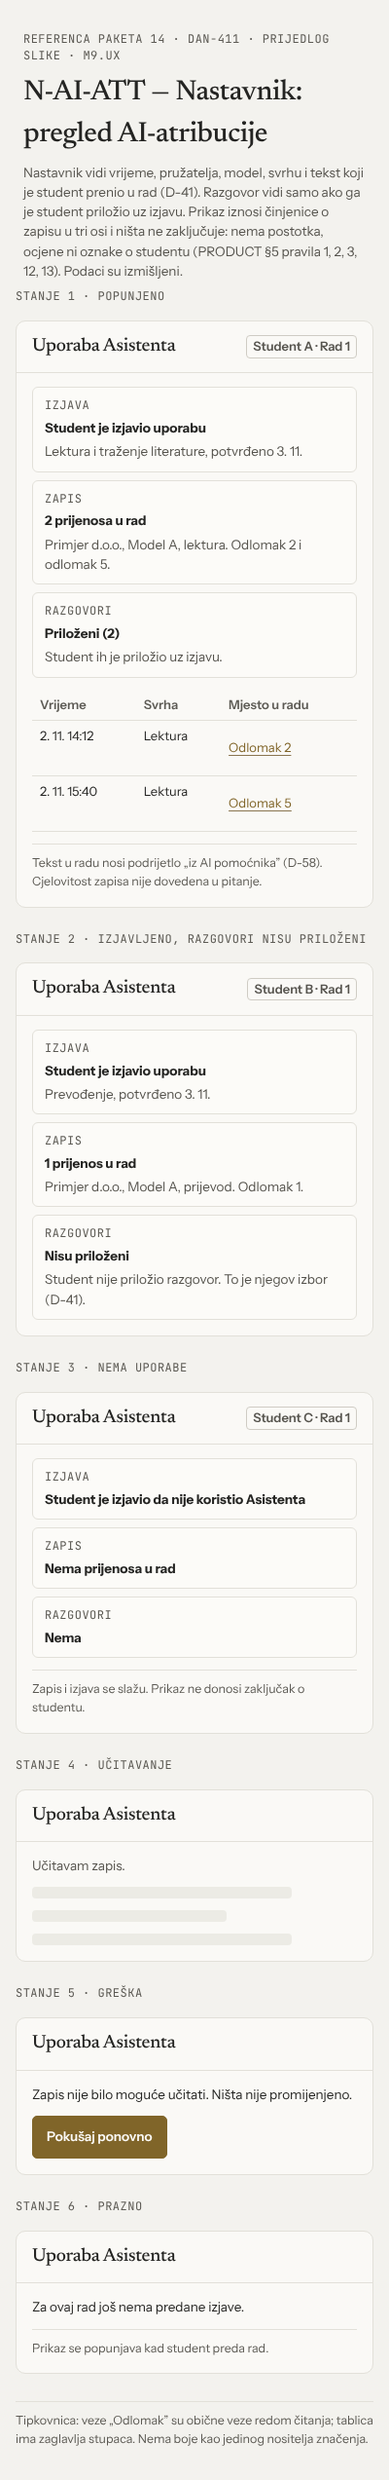
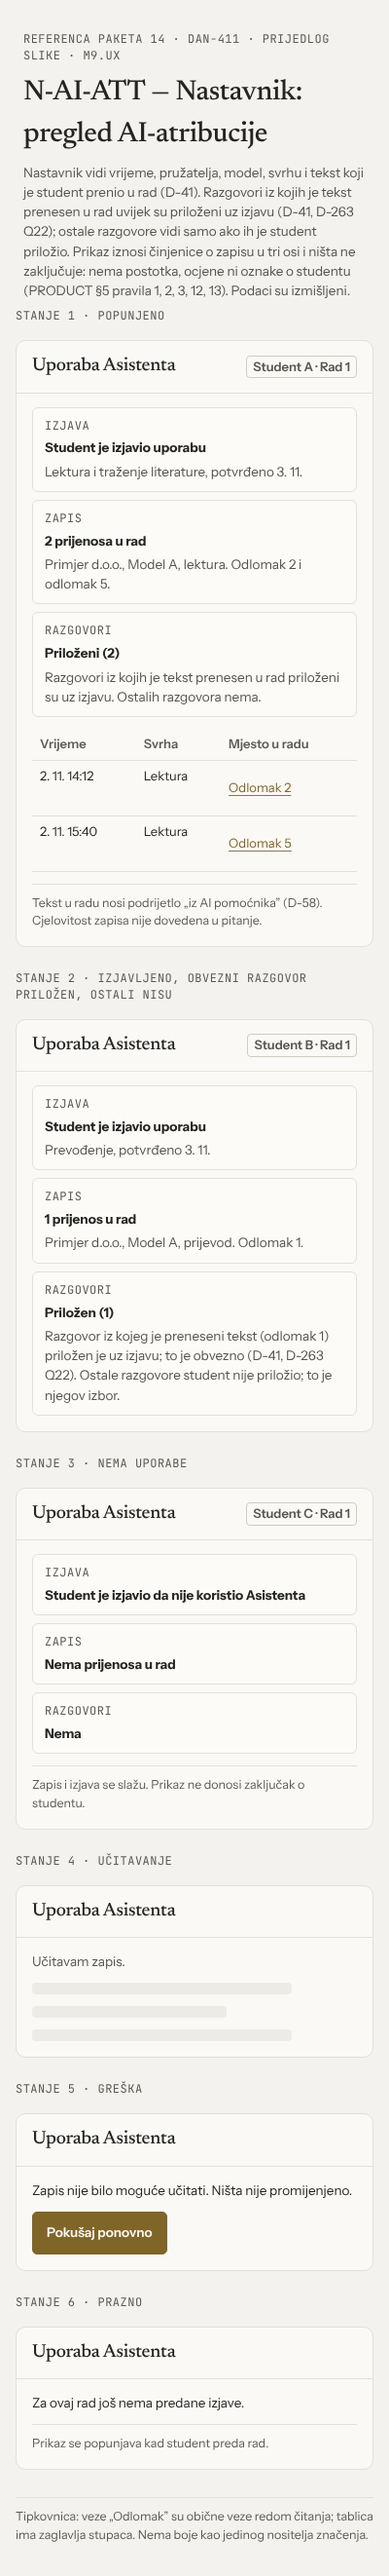
fix: show mandatory AI conversations as attached and add review state 2b (M9 reference B)
n-ai-att state 2 now shows the conversation the text was transferred from
as attached (D-41, D-263 Q22); only other conversations are the student's
choice. s31-ai state 2 gets a path to review and new state 2b with the
exact versions of the mandatory conversations before confirmation.
README, SHA256SUMS and eight snapshots updated.

Claude-Session: https://claude.ai/code/session_01N1HowXBt1YjNZJDEqbraN5

diff --git a/docs/design/ductura/m9-reference-b/s31-ai.html b/docs/design/ductura/m9-reference-b/s31-ai.html
@@ -10,7 +10,7 @@
 <header class="ref-head">
   <div class="ref-tag">Referenca paketa 14 · DAN-411 · prijedlog slike · M9.UX</div>
   <h1>S31-AI — Izjava o uporabi AI u predaji</h1>
-  <p>Student prije predaje izjavljuje je li koristio Asistenta, a izjava se sastavlja iz zapisa (D-40): alat, pružatelj, model, svrha, faza i razgovor. Student bira hoće li razgovore priložiti. Tekst je činjenica o uporabi, bez postotka i ocjene (PRODUCT §5 pravila 1, 2, 3, 13). Podaci su izmišljeni.</p>
+  <p>Student prije predaje izjavljuje je li koristio Asistenta, a izjava se sastavlja iz zapisa (D-40): alat, pružatelj, model, svrha, faza i razgovor. Razgovori iz kojih je tekst prenesen u rad prilažu se uvijek, a student prije potvrde pregledava njihove točne verzije; ostale razgovore prilaže po izboru (D-41, D-263 Q22). Tekst je činjenica o uporabi, bez postotka i ocjene (PRODUCT §5 pravila 1, 2, 3, 13). Podaci su izmišljeni.</p>
 </header>
 <main class="page"><div class="variants">
 
@@ -35,13 +35,33 @@
           <tbody><tr><td>Lektura</td><td>Primjer d.o.o., Model A</td><td>Pisanje</td></tr>
           <tr><td>Traženje literature</td><td>Primjer d.o.o., Model A</td><td>Planiranje</td></tr></tbody></table>
         <p class="note">Preneseno u rad: 2 odlomka, označeno kao „iz AI pomoćnika”.</p>
-        <p>Razgovori iz kojih je tekst prenesen u rad (2) prilažu se uz izjavu; možete pregledati njihove točne verzije prije potvrde.</p>
+        <p>Razgovori iz kojih je tekst prenesen u rad (2) prilažu se uz izjavu i ne mogu se izostaviti.</p>
+        <div class="acts"><button class="btn secondary" type="button">Pregledaj točne verzije razgovora (2)</button></div>
         <fieldset class="radio"><legend>Ostali razgovori</legend>
           <label><input type="radio" name="r2" checked> Priloži ostale razgovore (1)</label>
           <label><input type="radio" name="r2"> Ne prilaži ostale razgovore</label>
         </fieldset>
         <p class="foot">Ostali razgovori su Vaši dok pišete. Nastavnik ih vidi samo ako ih priložite (D-41).</p>
         <div class="acts"><button class="btn" type="button">Potvrdi izjavu</button><button class="btn secondary" type="button">Natrag na rad</button></div>
+      </div>
+    </div>
+  </section>
+
+  <section class="variant" aria-labelledby="v2b">
+    <div class="ref-tag" id="v2b">Stanje 2b · pregled točnih verzija obveznih razgovora prije potvrde</div>
+    <div class="panel" role="dialog" aria-labelledby="t2b">
+      <div class="panel-top"><h2 id="t2b">Razgovori uz izjavu (2)</h2><span class="tag">Pregled</span></div>
+      <div class="panel-body">
+        <p class="note">Ovo su točne verzije razgovora iz kojih je tekst prenesen u rad, onakve kakve će ući uz izjavu. Ne mogu se mijenjati ni izostaviti.</p>
+        <h3>Razgovor 1 · Lektura · 2. 11. 14:05</h3>
+        <div class="turn you"><span class="who">Vi</span><span>Možeš li lektorirati ovaj odlomak o izmišljenom primjeru?</span></div>
+        <div class="turn"><span class="who">Asistent · Primjer d.o.o., Model A</span><span>Predlažem blaže poredak rečenica i jednostavniji glagol u drugoj rečenici. Izmišljen primjer odgovora.</span></div>
+        <p class="foot">Preneseno u rad: odlomak 2, „iz AI pomoćnika”.</p>
+        <h3>Razgovor 2 · Lektura · 2. 11. 15:32</h3>
+        <div class="turn you"><span class="who">Vi</span><span>Provjeri interpunkciju u ovom odlomku.</span></div>
+        <div class="turn"><span class="who">Asistent · Primjer d.o.o., Model A</span><span>Dodajte zarez prije veznika u trećoj rečenici. Izmišljen primjer odgovora.</span></div>
+        <p class="foot">Preneseno u rad: odlomak 5, „iz AI pomoćnika”.</p>
+        <div class="acts"><button class="btn" type="button">Natrag na izjavu</button></div>
       </div>
     </div>
   </section>
@@ -98,7 +118,7 @@
   </section>
 
 </div>
-<p class="foot">Tipkovnica: dijalog hvata fokus, Esc ga zatvara i vraća fokus na gumb Predaj; odabir razgovora je skupina izbornih gumba sa strelicama. Greška se objavljuje kao role="alert".</p>
+<p class="foot">Tipkovnica: dijalog hvata fokus, Esc ga zatvara i vraća fokus na gumb Predaj; gumb „Pregledaj točne verzije razgovora” otvara pregled, a odabir ostalih razgovora je skupina izbornih gumba sa strelicama. Greška se objavljuje kao role="alert".</p>
 </main>
 </body>
 </html>

diff --git a/docs/design/ductura/m9-reference-b/n-ai-att.html b/docs/design/ductura/m9-reference-b/n-ai-att.html
@@ -10,7 +10,7 @@
 <header class="ref-head">
   <div class="ref-tag">Referenca paketa 14 · DAN-411 · prijedlog slike · M9.UX</div>
   <h1>N-AI-ATT — Nastavnik: pregled AI-atribucije</h1>
-  <p>Nastavnik vidi vrijeme, pružatelja, model, svrhu i tekst koji je student prenio u rad (D-41). Razgovor vidi samo ako ga je student priložio uz izjavu. Prikaz iznosi činjenice o zapisu u tri osi i ništa ne zaključuje: nema postotka, ocjene ni oznake o studentu (PRODUCT §5 pravila 1, 2, 3, 12, 13). Podaci su izmišljeni.</p>
+  <p>Nastavnik vidi vrijeme, pružatelja, model, svrhu i tekst koji je student prenio u rad (D-41). Razgovori iz kojih je tekst prenesen u rad uvijek su priloženi uz izjavu (D-41, D-263 Q22); ostale razgovore vidi samo ako ih je student priložio. Prikaz iznosi činjenice o zapisu u tri osi i ništa ne zaključuje: nema postotka, ocjene ni oznake o studentu (PRODUCT §5 pravila 1, 2, 3, 12, 13). Podaci su izmišljeni.</p>
 </header>
 <main class="page"><div class="variants">
 
@@ -22,7 +22,7 @@
         <ul class="axes">
           <li><span class="k">Izjava</span><b>Student je izjavio uporabu</b><span class="note">Lektura i traženje literature, potvrđeno 3. 11.</span></li>
           <li><span class="k">Zapis</span><b>2 prijenosa u rad</b><span class="note">Primjer d.o.o., Model A, lektura. Odlomak 2 i odlomak 5.</span></li>
-          <li><span class="k">Razgovori</span><b>Priloženi (2)</b><span class="note">Student ih je priložio uz izjavu.</span></li>
+          <li><span class="k">Razgovori</span><b>Priloženi (2)</b><span class="note">Razgovori iz kojih je tekst prenesen u rad priloženi su uz izjavu. Ostalih razgovora nema.</span></li>
         </ul>
         <table class="cmp"><thead><tr><th>Vrijeme</th><th>Svrha</th><th>Mjesto u radu</th></tr></thead>
           <tbody><tr><td>2. 11. 14:12</td><td>Lektura</td><td><a href="#v1">Odlomak 2</a></td></tr>
@@ -33,14 +33,14 @@
   </section>
 
   <section class="variant" aria-labelledby="v2">
-    <div class="ref-tag" id="v2">Stanje 2 · izjavljeno, razgovori nisu priloženi</div>
+    <div class="ref-tag" id="v2">Stanje 2 · izjavljeno, obvezni razgovor priložen, ostali nisu</div>
     <div class="panel" aria-label="AI-atribucija rada">
       <div class="panel-top"><h2>Uporaba Asistenta</h2><span class="tag">Student B · Rad 1</span></div>
       <div class="panel-body">
         <ul class="axes">
           <li><span class="k">Izjava</span><b>Student je izjavio uporabu</b><span class="note">Prevođenje, potvrđeno 3. 11.</span></li>
           <li><span class="k">Zapis</span><b>1 prijenos u rad</b><span class="note">Primjer d.o.o., Model A, prijevod. Odlomak 1.</span></li>
-          <li><span class="k">Razgovori</span><b>Nisu priloženi</b><span class="note">Student nije priložio razgovor. To je njegov izbor (D-41).</span></li>
+          <li><span class="k">Razgovori</span><b>Priložen (1)</b><span class="note">Razgovor iz kojeg je preneseni tekst (odlomak 1) priložen je uz izjavu; to je obvezno (D-41, D-263 Q22). Ostale razgovore student nije priložio; to je njegov izbor.</span></li>
         </ul>
       </div>
     </div>

diff --git a/docs/design/ductura/m9-reference-b/reference.css b/docs/design/ductura/m9-reference-b/reference.css
@@ -16,3 +16,4 @@
 .ro dt { color: var(--ink-3); font-size: 12.5px; }
 .ro dd { margin: 0 0 6px; }
 .panel .acts { display: flex; gap: 8px; flex-wrap: wrap; }
+.panel-body h3 { font: 600 13.5px/1.4 var(--ff-ui); letter-spacing: 0; margin: 6px 0 0; }

diff --git a/docs/design/ductura/m9-reference-b/README.md b/docs/design/ductura/m9-reference-b/README.md
@@ -6,15 +6,15 @@ Paket 14 iz `docs/design/EKRANI.md` §4. Smjer je „papir i grafit” (D-188, `
 
 | Stranica | Stanja | Izvori |
 |---|---|---|
-| `s31-ai.html` | nema uporabe, izjavljeno s razgovorima, izjavljeno bez ostalih razgovora, učitavanje, greška (predaja ostaje moguća), Asistent nije dopušten (izjava ostaje) | D-40, D-41, PRODUCT §5 pravila 1, 2, 3, 13 |
-| `n-ai-att.html` | popunjeno, razgovori nisu priloženi, nema uporabe, učitavanje, greška, prazno | D-41, D-58, PRODUCT §5 pravila 1, 2, 3, 12, 13 |
+| `s31-ai.html` | nema uporabe, izjavljeno s obveznim razgovorima i putem do pregleda, pregled točnih verzija obveznih razgovora prije potvrde (2b), učitavanje, greška (predaja ostaje moguća), Asistent nije dopušten (izjava ostaje) | D-40, D-41, PRODUCT §5 pravila 1, 2, 3, 13 |
+| `n-ai-att.html` | popunjeno, obvezni razgovor priložen a ostali nisu, nema uporabe, učitavanje, greška, prazno | D-41, D-58, PRODUCT §5 pravila 1, 2, 3, 12, 13 |
 | `a-ai-pol.html` | pregled i uređivanje, pružatelji samo za čitanje, objava nove verzije, neispravan unos, trošak nije podešen, učitavanje i greška | D-267 O5, D-270 O11 |
 
 Snimke su u `snimke/<stranica>-<tamna|svijetla>-<1440|400>.png`: Playwrightov Chromium, cijela stranica, DPR 1, nakon `document.fonts.ready`, bez vodoravnog pomicanja. Svijetla ljuska je `data-theme="light"`. Kontrolni zbrojevi su u `SHA256SUMS`.
 
 ## Odluke u slici
 
-- Izjava se sastavlja iz zapisa (D-40). Student sam odlučuje hoće li razgovore priložiti; razgovor je njegov dok piše (D-41).
+- Izjava se sastavlja iz zapisa (D-40). Razgovori iz kojih je tekst prenesen u rad obvezno se prilažu uz izjavu i student prije potvrde vidi njihove točne verzije (D-41, D-263 Q22); ostale razgovore student prilaže sam, razgovor je njegov dok piše.
 - Nastavnikov prikaz ima tri osi: izjava, zapis, razgovori. Iznosi činjenice, bez postotka, ocjene i oznake o studentu. Kad se izjava i zapis slažu, to je samo rečenica o slaganju.
 - A-AI-POL: administrator mijenja samo pravilo i pragove. Pružatelji su samo za čitanje iz verzionirane konfiguracije `config/faculties` (D-270 O11). Prazna konfiguracija troška znači da je Asistent isključen (D-267 O5). Studentu se razlog ne iznosi.
 - N-19 se ne crta.
